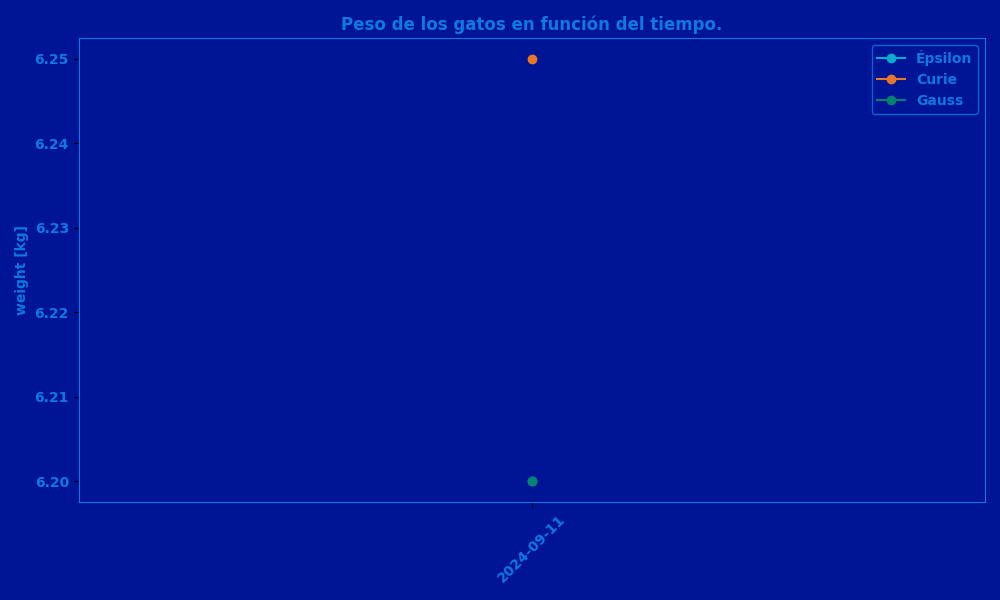
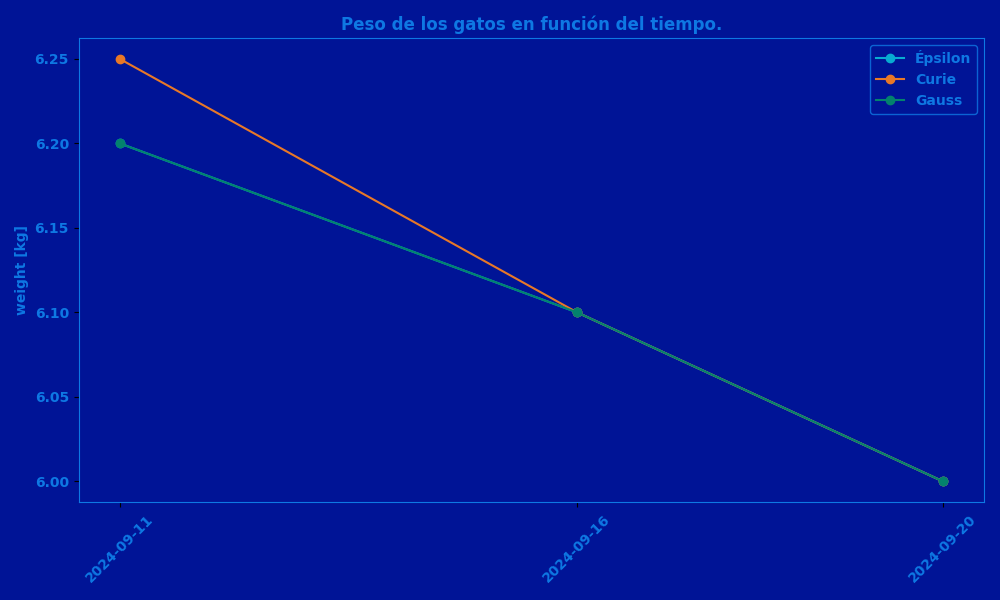
Weight measure 2024-09-20

diff --git a/my_cats.py b/my_cats.py
@@ -16,7 +16,9 @@ def get_epsilon() -> Cat:
         unit=KG,
         color_hex="#08acd1",
         weights=[
-            Weight(weight=6.20, date=date(2024,9,11))
+            Weight(weight=6.20, date=date(2024,9,11)),
+            Weight(weight=6.10, date=date(2024,9,16)),
+            Weight(weight=6.00, date=date(2024,9,20)),
         ],
         anti_parasitic=[
             AntiParasitic(name=ANTI_PARASITIC_APRAX, date=date(2024,9,15))
@@ -29,7 +31,9 @@ def get_curie() -> Cat:
         unit=KG,
         color_hex="#e87827",
         weights=[
-            Weight(weight=6.25, date=date(2024,9,11))
+            Weight(weight=6.25, date=date(2024,9,11)),
+            Weight(weight=6.10, date=date(2024,9,16)),
+            Weight(weight=6.00, date=date(2024,9,20)),
         ],
         anti_parasitic=[
             AntiParasitic(name=ANTI_PARASITIC_APRAX, date=date(2024,9,15))
@@ -42,7 +46,9 @@ def get_gauss() -> Cat:
         unit=KG,
         color_hex="#03826d",
         weights=[
-            Weight(weight=6.20, date=date(2024,9,11))
+            Weight(weight=6.20, date=date(2024,9,11)),
+            Weight(weight=6.10, date=date(2024,9,16)),
+            Weight(weight=6.00, date=date(2024,9,20)),
         ],
         anti_parasitic=[
             AntiParasitic(name=ANTI_PARASITIC_APRAX, date=date(2024,9,15))

diff --git a/README.md b/README.md
@@ -1,4 +1,4 @@
-##### last_updated: 2024-09-16 04:02:25
+##### last_updated: 2024-09-20 16:26:23
 
 ### Control de peso.
 ![plots/cat_weights.png](plots/cat_weights.png)
